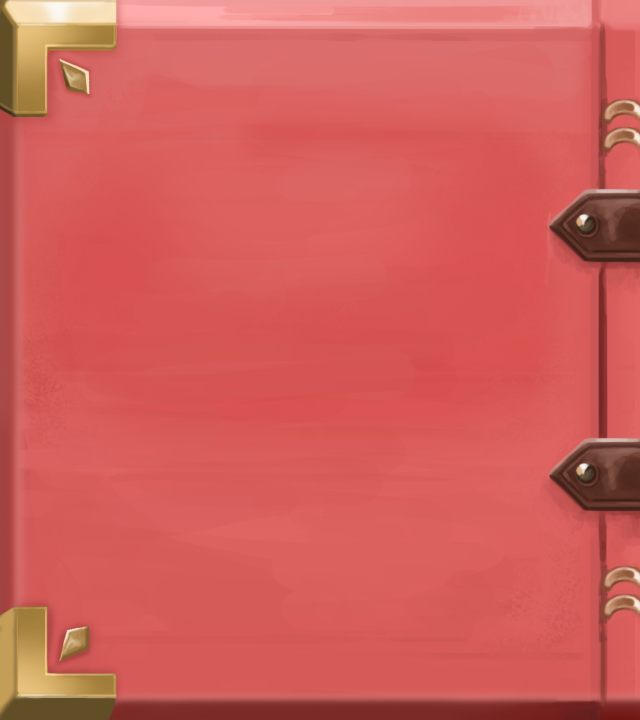
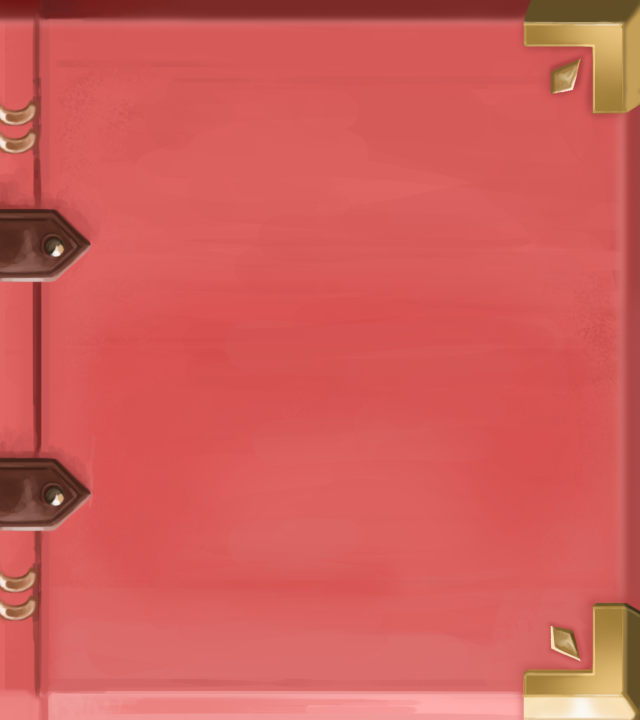
end/backキーでゲームを初期化に戻る

Changed region(s): [[0.0, 0.0, 1.0, 1.0]]

diff --git a/book.cpp b/book.cpp
@@ -215,12 +215,12 @@ void Book::update()
 			m_currentPaperNO = 0;
 		}
 	}
-	if (KEY_BOARD.Home){
+	/*if (KEY_BOARD.Home){
 		m_pfMove = &Book::startReading;
 	}
 	if (KEY_BOARD.End) {
 		m_pfMove = &Book::finishReading;
-	}
+	}*/
 	//m_posLookedByCamera += m_speed;
 	//m_angleYawPitchRoll.y += m_angleChangeSpeed.y;
 	//m_angleYawPitchRoll.z += m_angleChangeSpeed.z;
@@ -368,7 +368,7 @@ void Book::closeBook()
 		break;
 	case STEP::END:
 		m_timer++;
-		if (m_timer > 120)
+		if (m_timer > 40)
 		{
 			m_timer = 0;
 			m_step = STEP::FINISH;
@@ -488,91 +488,6 @@ void Book::openBook()
 	}
 }
 
-void Book::turnPages()
-{
-	switch (m_step)
-	{
-	case STEP::INIT:
-
-		for (auto &it: m_ppPapers)
-		{
-			if ((m_openSpeed <= 0 && it->m_paperNO > m_currentPaperNO - 2 && it->m_paperNO < m_currentPaperNO + 12) || (m_openSpeed >= 0 && it->m_paperNO < m_currentPaperNO + 2 && it->m_paperNO > m_currentPaperNO - 12))
-			{
-				it->m_isActive = true;
-			}
-			else
-			{
-				it->m_isActive = false;
-			}
-
-			if (it->m_paperNO <= m_currentPaperNO && m_openSpeed > 0)
-			{
-				it->m_custom3d.angleYawPitchRoll.x += m_openSpeed;
-				if (it->m_custom3d.angleYawPitchRoll.x > 180)
-				{
-					it->m_custom3d.angleYawPitchRoll.x = 180;
-				}
-				if (it->m_custom3d.angleYawPitchRoll.x < 0)
-				{
-					it->m_custom3d.angleYawPitchRoll.x = 0;
-				}
-			}
-			if (it->m_paperNO >= m_currentPaperNO && m_openSpeed < 0)
-			{
-				it->m_custom3d.angleYawPitchRoll.x += m_openSpeed;
-				if (it->m_custom3d.angleYawPitchRoll.x > 180)
-				{
-					it->m_custom3d.angleYawPitchRoll.x = 180;
-				}
-				if (it->m_custom3d.angleYawPitchRoll.x < 0)
-				{
-					it->m_custom3d.angleYawPitchRoll.x = 0;
-				}
-			}
-		}
-
-		break;
-	case STEP::BEGIN:
-
-		for (auto &it : m_ppPapers)
-		{
-			if (it->m_paperNO <= m_currentPaperNO && m_openSpeed > 0)
-			{
-				it->m_custom3d.angleYawPitchRoll.x += m_openSpeed;
-				if (it->m_custom3d.angleYawPitchRoll.x > 180)
-				{
-					it->m_custom3d.angleYawPitchRoll.x = 180;
-				}
-				if (it->m_custom3d.angleYawPitchRoll.x < 0)
-				{
-					it->m_custom3d.angleYawPitchRoll.x = 0;
-				}
-			}
-			if (it->m_paperNO >= m_currentPaperNO && m_openSpeed < 0)
-			{
-				it->m_custom3d.angleYawPitchRoll.x += m_openSpeed;
-				if (it->m_custom3d.angleYawPitchRoll.x > 180)
-				{
-					it->m_custom3d.angleYawPitchRoll.x = 180;
-				}
-				if (it->m_custom3d.angleYawPitchRoll.x < 0)
-				{
-					it->m_custom3d.angleYawPitchRoll.x = 0;
-				}
-			}
-		}
-		break;
-	case STEP::END:
-
-		break;
-	case STEP::FINISH:
-
-		break;
-	default:
-		break;
-	}
-}
-
 void Book::startReading()
 {
 	if (m_pfMoveOld != &Book::startReading)
@@ -652,25 +567,167 @@ void Book::startReading()
 
 void Book::finishReading()
 {
-	if (m_pfMoveOld != &Book::finishReading)
+	static int step = STEP::INIT;
+	if (m_pfMoveOld != &Book::finishReading && m_pfMoveOld != &Book::closeBook)
 	{
 		m_pfMoveOld = m_pfMove;
-		m_step = STEP::INIT;
+		step = STEP::INIT;
 	}
-	switch (m_step)
+	switch (step)
 	{
 	case STEP::INIT:
+		closeBook();
+		m_pfMoveOld = &Book::closeBook;
+		if (m_step == STEP::END)
+		{
+			step = STEP::INIT + 1;
+		}
+		break;
+	case STEP::INIT+1:
+		m_isClosed = false;
+		m_isOpened = false;
 		m_speed.x = -6.4f;
+		m_speed.y = -100.0f * m_speed.x * 2 / m_coverWidth;
+		m_speed.z = 200.0f * m_speed.x * 2 / m_coverWidth;
+		m_angleChangeSpeed.x = 90.0f * m_speed.x * 2 / m_coverWidth;
+		m_angleChangeSpeed.y = 45.0f * m_speed.x * 2 / m_coverWidth;
 
-		m_step = STEP::BEGIN;
+		for (auto &it : m_ppPapers){
+			it->m_isActive = false;
+		}
+		m_ppPapers[COVER_FRONT]->m_isActive = true;
+		m_ppPapers[COVER_BACK]->m_isActive = true;
+
+		step = STEP::BEGIN;
 		break;
 	case STEP::BEGIN:
+
+		m_ppPapers[COVER_FRONT]->m_isActive = true;
+		m_ppPapers[COVER_BACK]->m_isActive = true;
+
+		m_angleYawPitchRoll.x += m_angleChangeSpeed.x;
+		m_angleYawPitchRoll.y += m_angleChangeSpeed.y;
+		if (m_angleYawPitchRoll.y < 0.0f) {
+			m_angleYawPitchRoll.y = 0.0f;
+			m_angleChangeSpeed.y = 0;
+		}
+
 		m_posLookedByCamera.x += m_speed.x;
 		if (m_posLookedByCamera.x < 0) {
 			m_posLookedByCamera.x = 0;
-			m_step = STEP::END;
+			m_speed.x = 0;
+			for (auto &it : m_ppPapers) {
+				it->m_custom3d.angleYawPitchRoll.x = 0;
+			}
+			m_angleChangeSpeed.x = 0;
+			step = STEP::END;
 		}
 
+		m_posLookedByCamera.y += m_speed.y;
+		if (m_posLookedByCamera.y > 0.0f) {
+			m_posLookedByCamera.y = 0.0f;
+			m_speed.y = 0.0f;
+		}
+
+		m_posLookedByCamera.z += m_speed.z;
+		if (m_posLookedByCamera.z < 200.0f) {
+			m_posLookedByCamera.z = 200.0f;
+			m_speed.z = 0.0f;
+		}
+
+		break;
+	case STEP::END:
+
+		m_isClosed = false;
+		m_isOpened = false;
+		m_pfMove = nullptr;
+		m_pfMoveOld = nullptr;
+		m_ppPapers[COVER_FRONT]->m_isActive = true;
+		m_ppPapers[COVER_BACK]->m_isActive = true;
+		step = STEP::FINISH;
+		break;
+	case STEP::FINISH:
+
+		break;
+	default:
+		break;
+	}
+}
+
+
+void Book::turnPages()
+{
+	switch (m_step)
+	{
+	case STEP::INIT:
+
+		for (auto &it : m_ppPapers)
+		{
+			if ((m_openSpeed <= 0 && it->m_paperNO > m_currentPaperNO - 2 && it->m_paperNO < m_currentPaperNO + 12) || (m_openSpeed >= 0 && it->m_paperNO < m_currentPaperNO + 2 && it->m_paperNO > m_currentPaperNO - 12))
+			{
+				it->m_isActive = true;
+			}
+			else
+			{
+				it->m_isActive = false;
+			}
+
+			if (it->m_paperNO <= m_currentPaperNO && m_openSpeed > 0)
+			{
+				it->m_custom3d.angleYawPitchRoll.x += m_openSpeed;
+				if (it->m_custom3d.angleYawPitchRoll.x > 180)
+				{
+					it->m_custom3d.angleYawPitchRoll.x = 180;
+				}
+				if (it->m_custom3d.angleYawPitchRoll.x < 0)
+				{
+					it->m_custom3d.angleYawPitchRoll.x = 0;
+				}
+			}
+			if (it->m_paperNO >= m_currentPaperNO && m_openSpeed < 0)
+			{
+				it->m_custom3d.angleYawPitchRoll.x += m_openSpeed;
+				if (it->m_custom3d.angleYawPitchRoll.x > 180)
+				{
+					it->m_custom3d.angleYawPitchRoll.x = 180;
+				}
+				if (it->m_custom3d.angleYawPitchRoll.x < 0)
+				{
+					it->m_custom3d.angleYawPitchRoll.x = 0;
+				}
+			}
+		}
+
+		break;
+	case STEP::BEGIN:
+
+		for (auto &it : m_ppPapers)
+		{
+			if (it->m_paperNO <= m_currentPaperNO && m_openSpeed > 0)
+			{
+				it->m_custom3d.angleYawPitchRoll.x += m_openSpeed;
+				if (it->m_custom3d.angleYawPitchRoll.x > 180)
+				{
+					it->m_custom3d.angleYawPitchRoll.x = 180;
+				}
+				if (it->m_custom3d.angleYawPitchRoll.x < 0)
+				{
+					it->m_custom3d.angleYawPitchRoll.x = 0;
+				}
+			}
+			if (it->m_paperNO >= m_currentPaperNO && m_openSpeed < 0)
+			{
+				it->m_custom3d.angleYawPitchRoll.x += m_openSpeed;
+				if (it->m_custom3d.angleYawPitchRoll.x > 180)
+				{
+					it->m_custom3d.angleYawPitchRoll.x = 180;
+				}
+				if (it->m_custom3d.angleYawPitchRoll.x < 0)
+				{
+					it->m_custom3d.angleYawPitchRoll.x = 0;
+				}
+			}
+		}
 		break;
 	case STEP::END:
 

diff --git a/scene_main.cpp b/scene_main.cpp
@@ -101,19 +101,29 @@ void SceneMain::update()
 
 		pMapObjManager->init(0);
 		pPlayerManager->init();
+		//break;
+	case STEP::INIT+1:
 
 		m_pStr = "";
 		m_timer = 0;
-		m_step = STEP::INIT + 1;
+		m_step = STEP::INIT + 2;
 		m_pausedOption = PAUSED_SELECTION::TO_GAME;
 		//break;
-	case STEP::INIT+1:
+	case STEP::INIT+2:
+
 		m_pBook->update();
 		m_isBookClosed = m_pBook->m_isClosed;
 		m_isBookOpened = m_pBook->m_isOpened;
 		if (KEY_TRACKER.pressed.Z || PAD_TRACKER.a == PAD_TRACKER.PRESSED)
 		{
 			m_pBook->m_pfMove = &Book::startReading;
+			pObjManager->init();
+			pGameUIManager->init();
+			pEffectManager->init();
+
+			pMapObjManager->init(0);
+			pPlayerManager->init();
+
 		}
 		if (m_isBookOpened)
 		{
@@ -173,6 +183,15 @@ void SceneMain::update()
 		break;
 	default:
 		break;
+	}
+
+	if (KEY_TRACKER.pressed.End || PAD_TRACKER.back == PAD_TRACKER.PRESSED)
+	{
+		if (m_pBook->m_step>STEP::END)
+		{
+			m_pBook->m_pfMove = &Book::finishReading;
+			m_step = STEP::INIT + 1;
+		}
 	}
 
 

diff --git a/paper.cpp b/paper.cpp
@@ -89,6 +89,7 @@ void Paper::draw()
 		///////////////////////////////////////////////////////////////////////////////////////////////////
 		// Front View
 		m_pViewFront->set();
+		m_pBG->m_custom.reflectX = false;
 		m_pBG->draw();
 
 		pObjManager->draw(m_paginationFront);
@@ -107,6 +108,7 @@ void Paper::draw()
 		//////////////////////////////////////////////////////////////////////////////////////////////////
 		// Back View
 		m_pViewBack->set();
+		m_pBG->m_custom.reflectX = true;
 		m_pBG->draw();
 
 		pObjManager->draw(m_paginationBack);

diff --git a/player.cpp b/player.cpp
@@ -539,6 +539,8 @@ void PlayerManager::init() {
 	{
 		m_pPlayer->clear();
 		m_pPlayer->init();
+		pEffectManager->setPlayerInitAnimation(m_pPlayer->m_pos);
+		m_pPlayer->m_mode = P_MODE::START;
 	}
 }
 

diff --git a/game.h b/game.h
@@ -9,7 +9,7 @@
 #include "./3dgp/template.h"
 #include "./3dgp/scene.h"
 
-//#define DEBUG
+#define DEBUG
 
 
 #define PAGE_WIDTH	(620)
